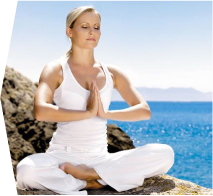
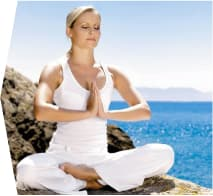
adaptive

diff --git a/index.html b/index.html
@@ -256,7 +256,7 @@
                         <div class="healthy_food">
                             <p>Насколько сильно лишний вес негативно сказывается на работе ключевых органов и как это
                                 исправить</p>
-                            <img src="images/healthy_food.png" alt="">
+                            <img src="images/healthy_food.jpg" alt="">
                         </div>
                     </div>
 
